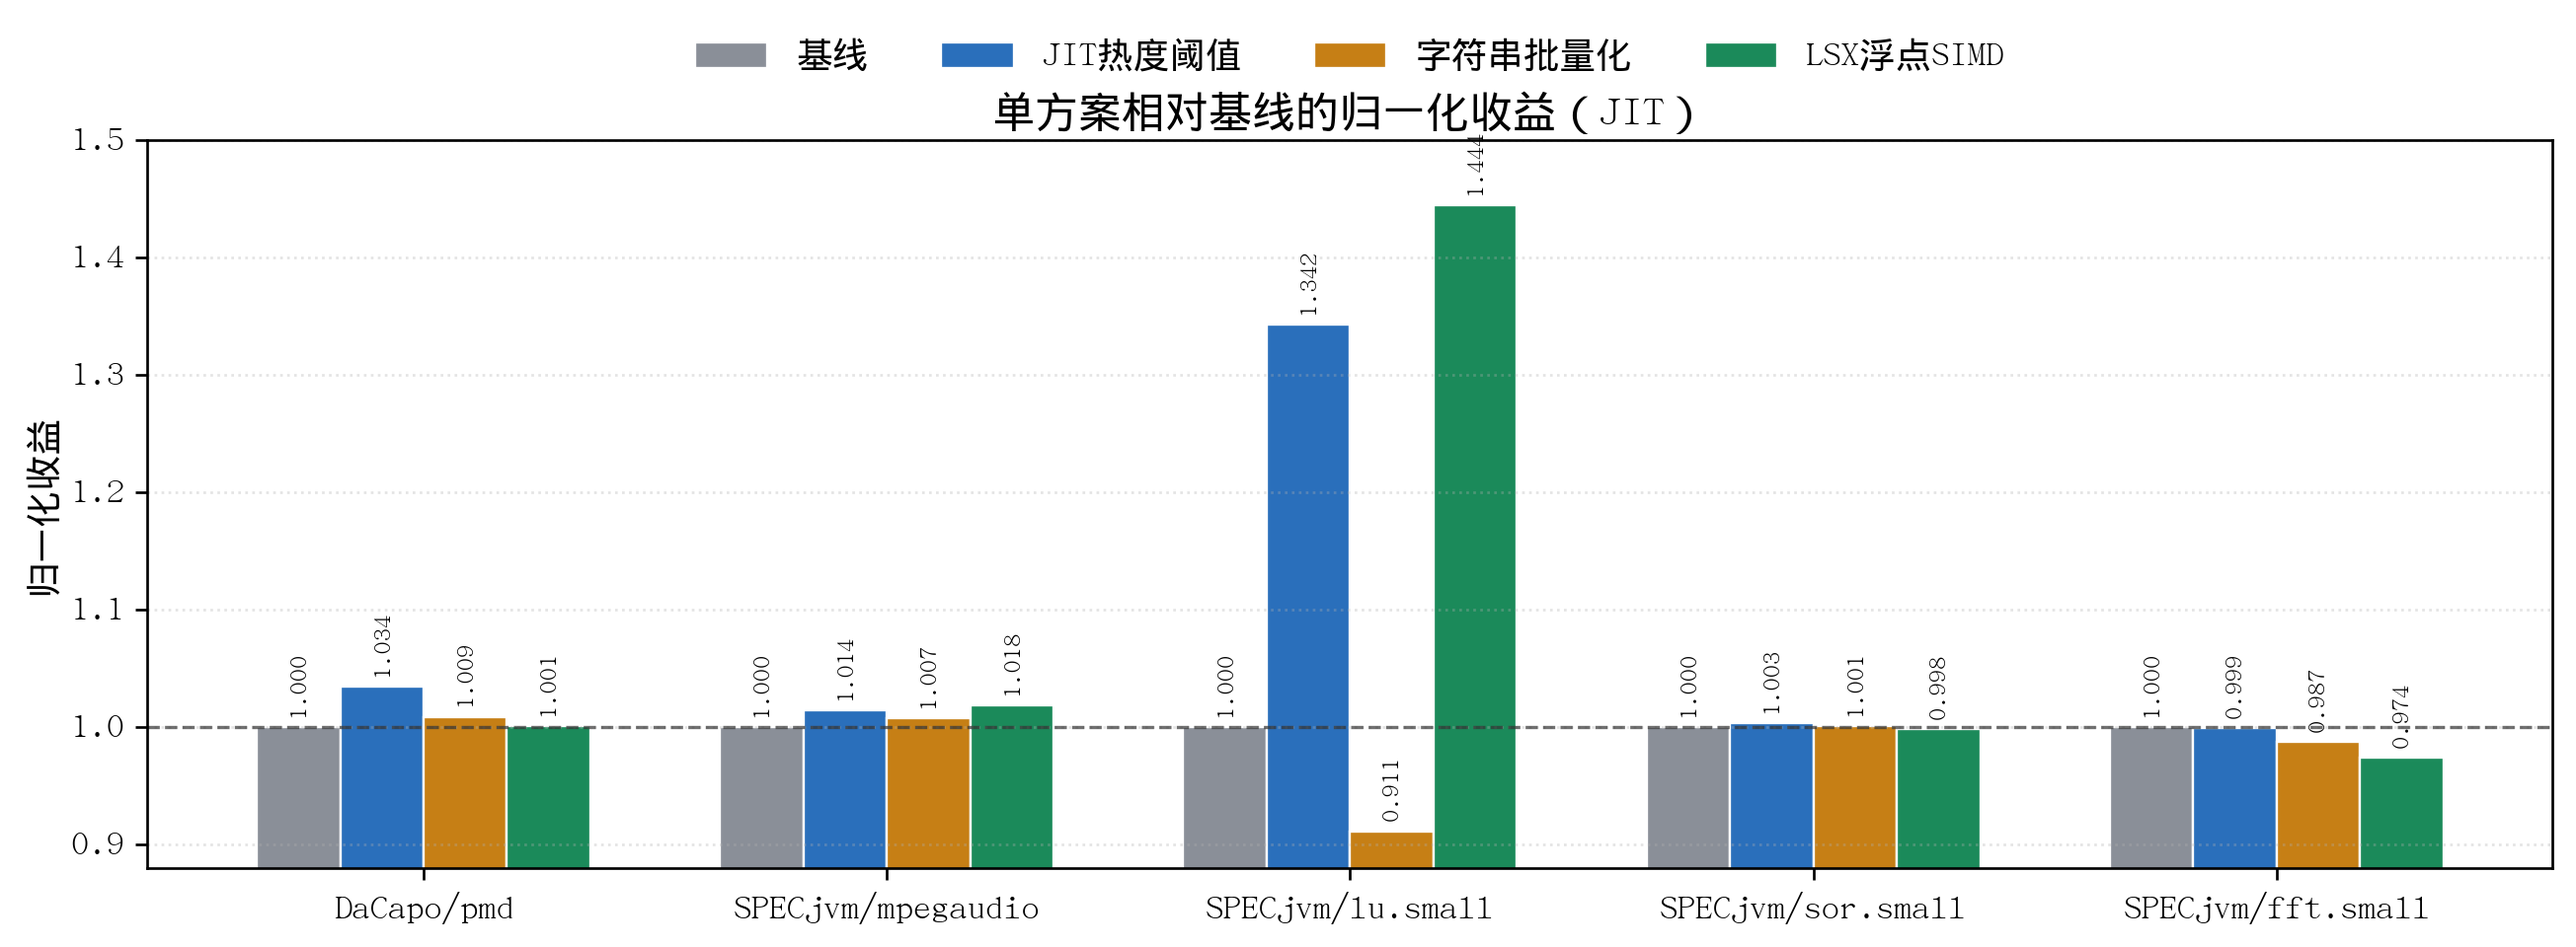
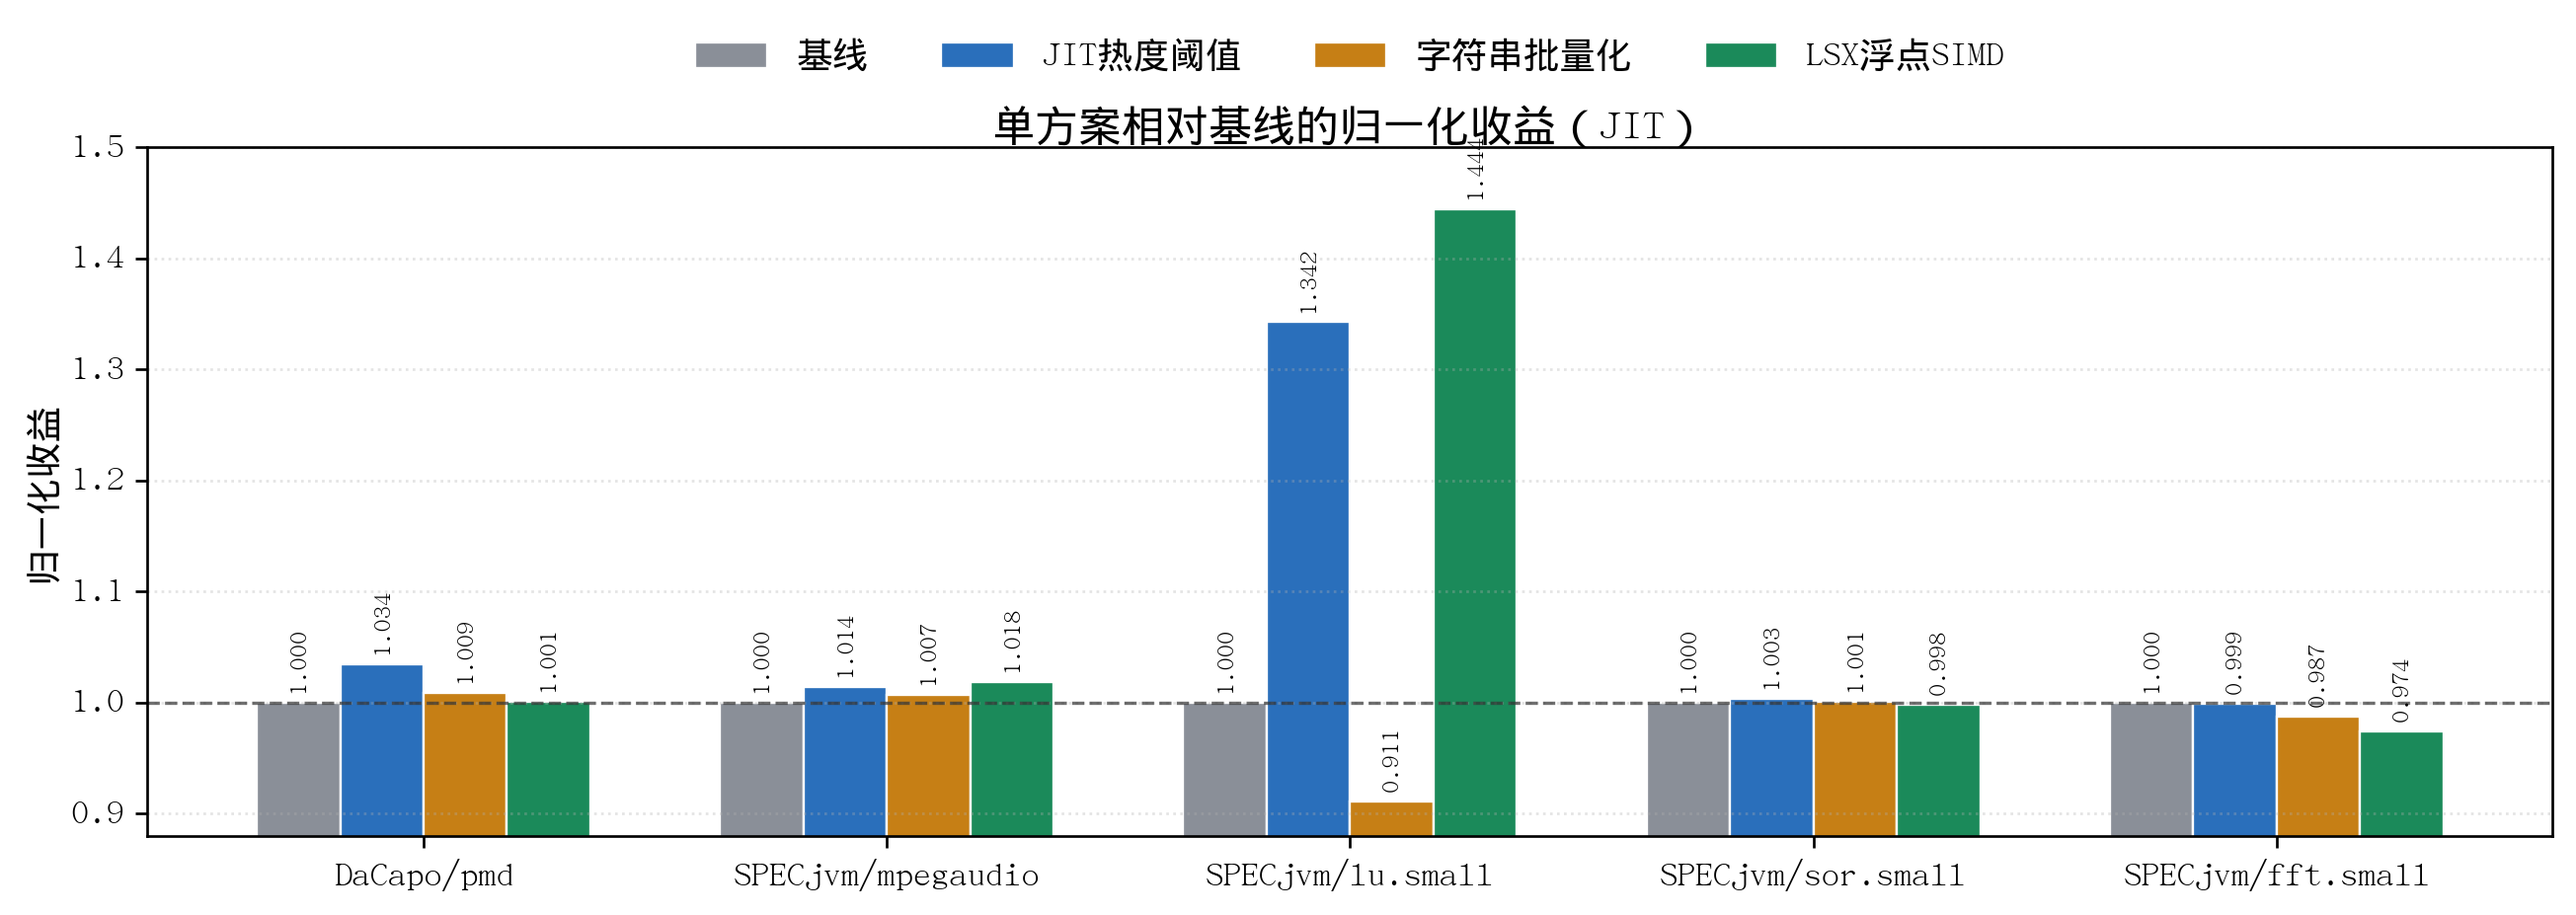
V2.0

diff --git a/Report/03-论文审查/2026-03-25-硕士论文审查报告.md b/Report/03-论文审查/2026-03-25-硕士论文审查报告.md
@@ -1,171 +1,72 @@
-# 基于 LoongArch 架构的 ART 执行引擎适配与优化技术研究 审查报告
 
-审查日期：2026-03-25
 
-审查对象：`Thesis.tex` 及其正文章节、参考文献、当前可访问的外部 benchmark 目录
-
-审查结论：`needs moderate revision`
-
-## 一、总评
-
-这篇论文的整体结构完整，主线明确，技术问题聚焦，优点是把“适配、验证、优化、失败方案”放进了一条统一叙事链里，工程真实性和研究问题意识都比较强。尤其是第 5 章对失败方案和收益边界的并列呈现，使论文不只是“展示跑分提升”，这一点是明显加分项。
-
-当前的主要短板不在“有没有工作量”，而在“核心证据链是否足够可复核、可量化、可让外部评审独立确认”。如果以送审版标准衡量，论文目前更接近“内容基本成型，但还需要中等强度补证和收束表述”的状态。
-
-## 二、前三个阻塞问题
-
-### 1. 关键实验结果的可复核链条还不闭合
-
-问题说明：
-
-- 第 5 章明确说正文统一使用语义化版本名，不直接展开源码提交哈希，并把源码状态、脚本和数据目录留在外部归档中，见 `Tex/Chap_Optimization.tex:26-28`。
-- 第 4 章又说明 `final-comparison`、`statistical-validation` 的 `run.log`、`perf.data`、`report_symbol.txt`、`report_callgraph.txt`、`flamegraph.svg` 等原始产物保存在外部目录，当前论文仓库不附带完整 `test-data/`，见 `Tex/Chap_Verification.tex:193-199`。
-- 但在当前审查环境中，`AGENTS.md` 指定的 `/workspace/aosp/art` 与 `/workspace/aosp/tmp/MyBenchMark` 均不存在；可找到的 benchmark 目录是 `/Users/yanxi/code/Latex/tmp/MyBenchMark`，其中也未找到论文正文直接点名的 `final-comparison`、`statistical-validation`、`test-data`、`reports`、`scheme3`、`scheme3-archive` 等目录。
-
-为什么重要：
-
-- 这会直接削弱第 4 章“统一验证链路可复核”和第 5 章“正式基线固定”的说服力。
-- 评审人若想追溯“某个图表对应哪次实验、哪版代码、哪份原始日志”，当前正文给不到足够闭环的信息。
-
-修改建议：
-
-- 至少在附录或正文表格中增加“语义化版本名 -> commit hash / tag / 归档目录”的映射表。
-- 对 `final-comparison` 与 `statistical-validation` 给出可以直接定位的归档路径、脚本名和结果摘要文件名。
-- 如果送审时不能附原始数据，也应附一页“复核说明”，明确外部补充材料的组织方式。
-
-### 2. 正确性验证证据展示仍偏汇总化，量化不足
-
-问题说明：
-
-- 宿主机侧测试只描述了测试类型和作用，没有给出测试数量、通过率、失败项或日志索引，见 `Tex/Chap_Verification.tex:74-80`。
-- `run-test` 给出了 1033/1033 的总量结果，这是好的，但仍缺命令矩阵、样例日志索引或失败后如何收敛的统计摘要，见 `Tex/Chap_Verification.tex:94-115`。
-- `libcore` 测试部分明确承认“仅保留包级结果摘要而非逐包统计明细”，因此不写精确通过率，见 `Tex/Chap_Verification.tex:119-123`。
-
-为什么重要：
-
-- 第 3 章与第 6 章多次把“执行引擎适配闭环已经完成”作为稳定结论，但对外部评审而言，`run-test` 和 `libcore` 的证据强度并不对等。
-- 当前写法更像“作者内部确认已经通过”，还不够像“可以向评审展示的定量验证证据”。
-
-修改建议：
-
-- 为 Host 测试补一张摘要表，至少列测试集名称、数量、通过/失败/跳过。
-- 为 libcore 补充包级统计表，哪怕只给包名、通过数、跳过数、备注，也比“以通过为主”更有说服力。
-- 如果篇幅紧张，可把完整明细放附录，只在正文保留摘要表和日志索引。
-
-### 3. 三项正式优化方案的证据层级不一致，但结论段仍有并列化倾向
-
-问题说明：
-
-- 论文其实已经承认方案一只有“正收益样本”，重复测量后 3 轮均值回落到 `-1.26%`，见 `Tex/Chap_Optimization.tex:526-531`。
-- 方案二在 `pmd` 和 `mpegaudio` 上都只有约 `1%` 量级弱正收益，且在 `lu.small` 上明显回退，见 `Tex/Chap_Optimization.tex:321-341`。
-- 方案三的主结论相对最稳，但“完整 SIMD 覆盖版”部分仍以 3 轮或 5 轮的小样本几何平均给出较多推断，见 `Tex/Chap_Optimization.tex:423-484`。
-- 与此同时，引言和结论仍把“三项正式优化方案”作为较平行的贡献集合陈述，见 `Tex/Chap_Intro.tex:138-143`、`Tex/Chap_Conclusion.tex:46-55`。
-
-为什么重要：
-
-- 现在真正达到“主结论级强证据”的，只有方案三在 `lu.small` 上的稳定收益。
-- 方案一更适合写成“有价值的观察与候选方向”；方案二更适合写成“边界明确的定向微优化”；如果继续以“三项正式方案并列贡献”表述，容易被评审追问证据强弱不对称。
-
-修改建议：
-
-- 在摘要、引言贡献、结论中进一步拉开三项方案的证据层级。
-- 可以把方案一、方案二降格表述为“正式研究对象”或“正式候选方案”，把“已形成稳定主收益结论”的表述集中给方案三。
-- 如果还来得及补实验，优先补方案二和方案一的同日重复测量，而不是继续扩展新候选方向。
-
-## 三、分维度审查
-
-| 维度 | 评价 | 说明 |
-| --- | --- | --- |
-| 结构完整性 | 良好 | 摘要、绪论、相关技术、实现、验证、优化、结论链条完整，章节对应关系清晰。 |
-| 技术内容与实现论证 | 良好 | 技术目标明确，适配范围、关键模块和失败案例都写出来了，工程真实感较强。 |
-| 实验设计与证据强度 | 中等 | 有统一 baseline、有效性威胁、自我约束意识，但原始归档与重复测量证据还不够闭环。 |
-| 图表、引用与版式 | 中等偏上 | 无未定义引用，图表齐全，但当前编译仍有版式告警，且部分关键事实缺一手引文或复核索引。 |
-| 用词用语是否规范 | 中等 | 语言总体稳，但术语混用、命名不统一、英文化表达偏多，仍需专门收一轮。 |
-
-## 四、用词用语是否规范
-
-这一项单独列出，因为它在当前稿件里已经不是纯润色问题，而是会影响评审阅读流畅度和论文规范感的问题。
-
-### 1. 术语命名不统一
-
-- `Scimark` 与 `scimark` 混用。例子见 `Tex/Frontmatter.tex:32`、`Tex/Chap_Verification.tex:165`、`Tex/Chap_Optimization.tex:347`。建议统一为 `SciMark` 或统一使用 `SPECjvm2008/scimark.*` 的官方写法，不要中文正文里一处大写、一处小写、一处只写子项。
-- `target 回归`、`Host 侧构建`、`benchmark`、`workload`、`baseline`、`build 配置`、`debug 构建` 等中英混用较多，见 `Tex/Chap_Intro.tex:102-103`、`Tex/Chap_Conclusion.tex:13`、`Tex/Chap_Conclusion.tex:91-92`。建议确定一套写法，例如“目标机回归/宿主机构建/基准测试/工作负载/基线/debug 构建”，首次出现时保留英文括注。
-
-### 2. 抽象化、模板化句式重复较多
-
-高频句型包括：
-
-- “需要说明的是……”
-- “需要进一步说明的是……”
-- “基于这一观察，本文提出……”
-- “这说明……”
-- “从……可以看到/看出……”
-
-集中样例见 `Tex/Chap_Verification.tex:40`、`Tex/Chap_Verification.tex:193`、`Tex/Chap_Optimization.tex:19`、`Tex/Chap_Optimization.tex:184`、`Tex/Chap_Optimization.tex:278`、`Tex/Chap_Optimization.tex:352`、`Tex/Chap_Optimization.tex:526`。
-
-问题不在单句错误，而在整章连续出现后会形成明显的“说明文套语”感。建议每节压缩 20% 左右此类句式，把更多篇幅留给“数据-现象-解释”的直接表达。
-
-### 3. 句子过长，局部存在欧化倾向
-
-- `Tex/Chap_Optimization.tex:253-256` 的句子把“现象、解释、证据等级判断”塞进一长句里，阅读负担较大。
-- `Tex/Chap_Optimization.tex:168-171` 和 `Tex/Chap_Conclusion.tex:46-55` 都有信息密度过高、并列关系过多的问题，建议拆句。
-
-建议做法：
-
-- 每句尽量只承载一个判断。
-- “结果是什么”和“为什么这样解释”分成两句。
-- 把“在当前材料中”“不宜单独上升为”“更适合作为”这类元评注减少一部分，让结论更直接。
-
-## 五、图表、引用与版式问题
-
-### 1. 当前构建成功，但仍有版式告警
-
-当前使用 `./artratex.sh xa Thesis.tex` 可以成功编译，生成 `Tmp/Thesis.pdf`，共 94 页。
-
-但 `Tmp/Thesis.log` 仍有如下问题：
-
-- 2 处 `hyperref` PDF string 警告。
-- 1 处 `Overfull \hbox`，位于 `Tex/Chap_Optimization.tex:653-659` 附近。
-- 多处 `Underfull \hbox`，涉及 `Tex/Chap_Porting.tex`、`Tex/Chap_Optimization.tex` 和参考文献输出。
-
-这不是内容性错误，但送审前最好清掉明显的 overfull。
-
-### 2. 中心事实建议补一手引文
-
-- “AOSP 15 官方主线并未提供面向 LoongArch 的 ART 执行引擎实现”是全文立题依据之一，但在 `Tex/Chap_Intro.tex:22-27` 这里没有直接引文支撑。建议补一手来源，至少给出源码树状态、官方架构支持文档或带日期的仓库审计说明。
-
-### 3. 网络文献格式建议统一
-
-- `Biblio/ref.bib:243-249` 的 `OpenJDKLoongArch2023` 没有像 `Biblio/ref.bib:251-257` 那样给出访问日期，网页类文献的格式不够统一。
-- 这类文献若进入最终参考文献，建议统一访问日期、载体类型和 URL 表达方式。
-
-## 六、当前审查时已完成的复核
-
-### 1. 已完成
-
-- 成功重编论文：`./artratex.sh xa Thesis.tex`
-- 复核章节结构、摘要、引言、相关技术、验证、优化、结论和参考文献关键条目
-- 复核当前仓库中的图表文件 `Img/mybenchmark/*`
-- 复核当前可访问的 benchmark 目录 `/Users/yanxi/code/Latex/tmp/MyBenchMark`
-
-### 2. 未能完成
-
-- `AGENTS.md` 指定的 `/workspace/aosp/art` 不存在，未能直接核对论文中涉及的 AOSP ART 实现细节与源码文件。
-- `AGENTS.md` 指定的 `/workspace/aosp/tmp/MyBenchMark` 不存在。
-- 当前可访问的 `MyBenchMark` 目录中能找到部分 `run.log`、`perf.data`、`report_symbol.txt`、`report_callgraph.txt`、`flamegraph.svg`，但未找到正文直接引用的 `final-comparison`、`statistical-validation`、`test-data`、`reports` 等目录。
-
-这部分应在答辩或送审前处理成“可复核附录”或“补充材料说明”。
-
-## 七、建议作者优先处理的修改顺序
-
-1. 先补“版本名/commit/数据归档路径”映射表，把实验复核链条补闭。
-2. 再补 Host 测试和 libcore 的定量摘要，把“正确性验证”从描述性提升到可检查。
-3. 统一收束三项方案的证据层级，避免方案一、方案二与方案三在摘要和结论中并列过强。
-4. 单独做一轮语言清稿，重点统一 `SciMark`、`benchmark/workload/baseline/target/debug` 等术语写法。
-5. 最后清理版式告警和网络文献格式。
-
-## 八、审查结论
-
-如果目标是“形成一篇结构完整、论证克制、能经得起送审追问的硕士论文”，当前稿件已经过了“只有工程描述、缺研究意识”的阶段；但若以正式送审标准看，最需要补的不是再加一两个优化点，而是把现有主张的证据链做实、把术语与语言再收一轮。
-
-因此，本次审查结论为：`needs moderate revision`。
+### 🌟 核心系统提示词（System Prompt）
+*在使用任何具体的修改指令前，先发这一段给AI，给它“设定人设和底线”。*
+
+> **提示词：**
+> “你现在是一位经验丰富的计算机/工程类学术期刊资深编辑和审稿人。我需要你帮我修改我的学术论文。在接下来的所有对话中，你必须严格遵守以下原则：
+> 1. **学术化与客观性**：语言必须客观、严谨、通俗易懂。绝对不要使用常见的‘AI味’词汇（如：‘旨在’、‘革命性’、‘无缝整合’、‘全方位’、‘不仅...而且...’等华丽冗长的辞藻）。用人类学者的自然口吻，直接把事情说清楚。
+> 2. **专业术语规范**：严禁使用口语化或不准确的词汇。例如：绝不能用‘副作用’，必须替换为专业的‘系统开销（Overhead）’、‘性能损耗’或‘额外代价’。
+> 3. **内容聚焦**：剔除毫无必要的冗余描述和情绪化的‘负面抱怨/踩坑记录’。只保留最核心的学术逻辑：问题背景 -> 过往方案的局限 -> 本文方案 -> 测试数据 -> 性能提升证明。
+> 4. **面向图表写作**：在涉及到机制、流程的地方，你需要主动提示我这里应该加图，并为我提供图表的结构建议或伪代码。
+> 
+> 如果你理解了以上原则，请回复‘已准备好，请发送需要修改的论文段落或章节’。”
+
+---
+
+### 📝 场景一：重写第四章（解决“像技术报告、不像学术论文”的问题）
+*针对第四章实验平台和测试部分进行专门改造。*
+
+> **提示词：**
+> “这是我论文第四章的草稿。审稿人认为它现在太像一份‘工程技术报告或测试手册’，缺乏学术深度。
+> 请帮我按照**标准学术论文的‘实验与评估（Evaluation）’章节**进行重写，要求如下：
+> 1. **结构重构**：将其划分为‘实验环境与配置（Experimental Setup）’、‘评估指标（Metrics）’、‘基准对比方案（Baselines）’以及‘实验结果与分析（Results and Analysis）’。
+> 2. **学术化表达**：不要像写说明书一样罗列软件安装步骤或平台搭建过程。请用精炼的语言描述软硬件环境配置（CPU, 内存, 操作系统, 关键依赖等）。
+> 3. **强调科学性**：说明为什么选这些测试数据？测试变量是什么？请确保突出实验设计的严谨性。
+> 4. **语言要求**：保持平实、客观的学术口吻，去除任何口语化描述。
+> 
+> [在此粘贴你的第四章草稿]”
+
+---
+
+### 📝 场景二：内容大瘦身（解决“冗余、负面内容多、重点不突出”的问题）
+*针对论文的前几章（引言、相关工作、方案设计）。*
+
+> **提示词：**
+> “请帮我精简并重写以下论文内容。目前存在的问题是：冗余内容太多，写了太多不必要的负面过程和试错经历。
+> 
+> 请按照以下逻辑重组这段文字，直接切入重点：
+> 1. **方案背景**：精炼交代我们要解决什么问题。
+> 2. **过往方案与当前方案**：一针见血地指出过往方案的缺点（客观指出局限性，而不是主观贬低），然后引出我的当前方案及其核心创新点。
+> 3. **性能与测试数据**：用客观的数据支撑结论，直接给出性能提升了多少。
+> 4. **词汇纠正**：全文扫描并替换不专业词汇，确保把所有的‘副作用’、‘坏影响’等词替换为‘性能开销（Overhead）’、‘资源占用’等专业术语。
+> 5. **去除AI味**：不要生成华丽的排比句，不要过度总结。用最短的句子把工程逻辑讲清楚。
+> 
+> [在此粘贴你需要修改的段落]”
+
+---
+
+### 📝 场景三：补充图表、流程图和伪代码（解决“论文干瘪、缺图”的问题）
+*针对你的方案设计章节。*
+
+> **提示词：**
+> “审稿人指出我的论文缺少各种机制的结构图、流程图和伪代码示意。这是我方案设计部分的内容：
+> [在此粘贴你的方案原理段落]
+> 
+> 请你完成以下两项任务：
+> **任务一：生成伪代码（Pseudocode）**
+> 请提取这段文字中的核心算法或执行逻辑，使用标准的 LaTeX algorithm 格式（或易读的类 C/Python 伪代码）写出核心流程，要求包含输入（Input）、输出（Output）和关键步骤注释。
+> 
+> **任务二：设计流程图/结构图**
+> 1. 请告诉我在这段文字的哪一处插入什么类型的图（架构图还是流程图）最合适？
+> 2. 请使用 **Mermaid 语法** 直接为我生成这个流程图的代码，以便我可以渲染出来直接放到论文里。图表的节点文本必须精炼专业。
+> 3. 帮我写一段不超过50个字的‘图注（Figure Caption）’。”
+
+---
+
+### 💡 给你的额外建议（如何彻底消除“AI味”）：
+
+AI写东西之所以有“AI味”，是因为它习惯**“过度解释”**和**“使用高频虚词”**。你在审阅AI给你的修改稿时，可以使用这个**“除味小指令”**进行最后一步过滤：
+
+> **“去AI味”微调提示词：**
+> “请检查你刚刚生成的文本。删除所有的‘总而言之’、‘毋庸置疑’、‘显著提升’、‘不仅...而且...’。把所有超过30个字的长句拆分成短句。不要使用任何修辞手法，只陈述主谓宾：做了什么机制，耗费了什么开销，提升了多少吞吐量/降低了多少延迟。重新输出一遍。”
